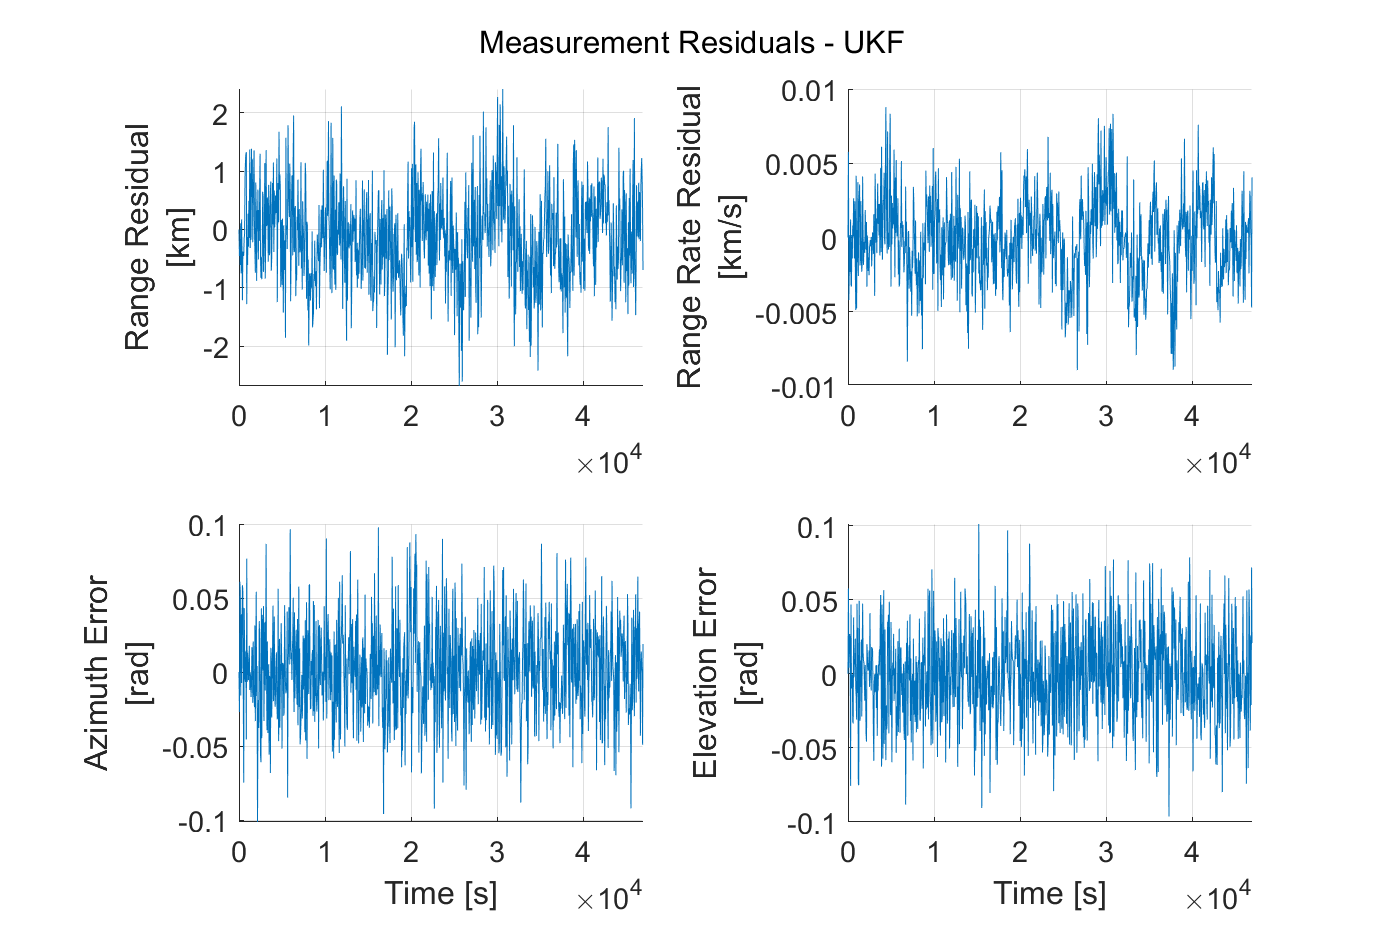
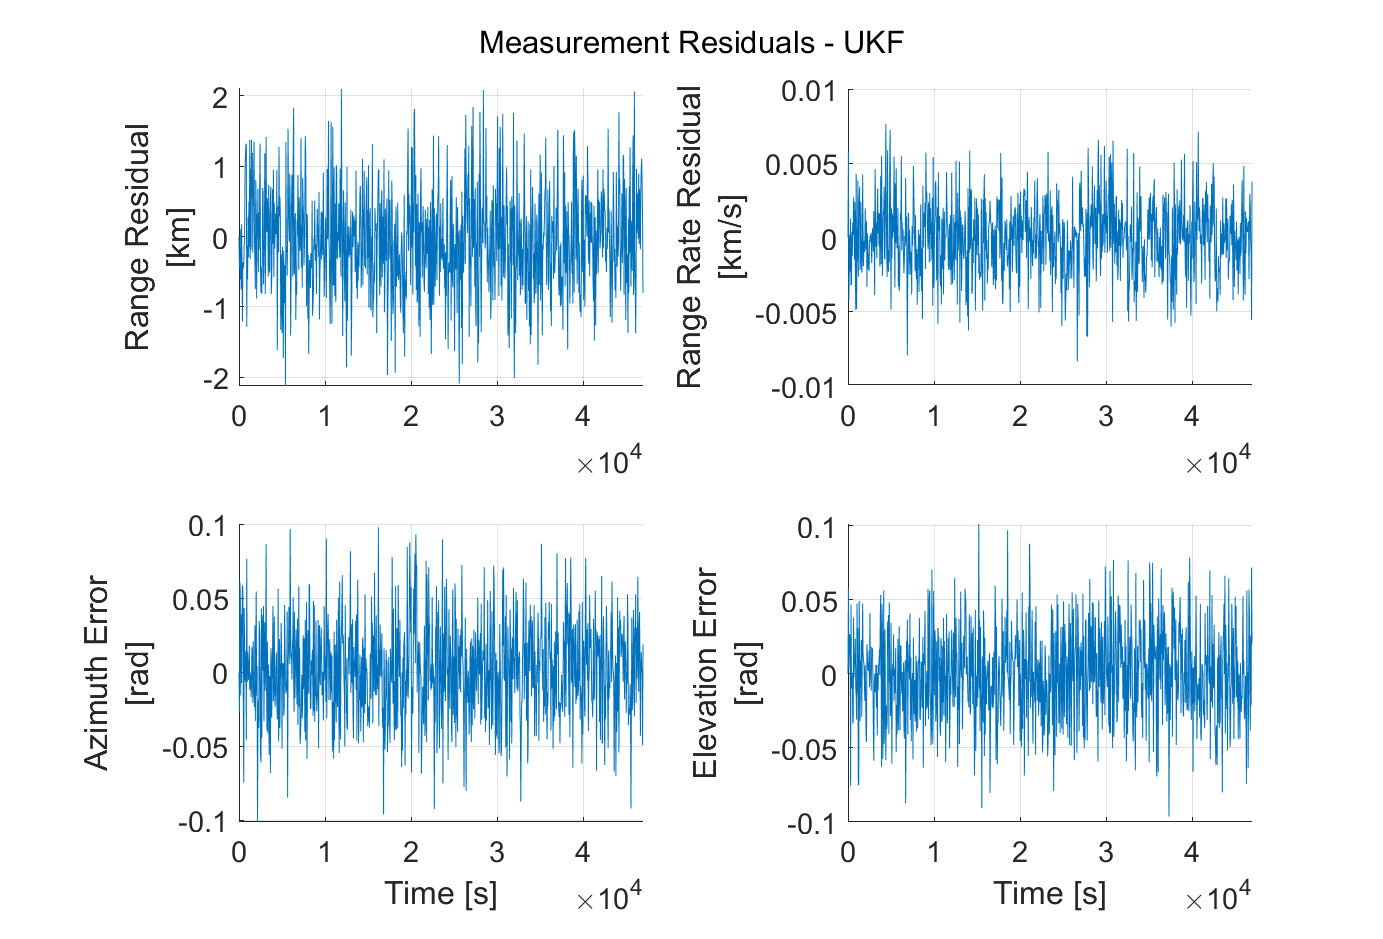
Functioning PF with initial tuning

diff --git a/RunFilters.m b/RunFilters.m
@@ -9,16 +9,11 @@ UKF.xp = UKF.xm;
 UKF.xm(:,1) = init_state;
 UKF.xp(:,1) = init_state;
 
-PF.xm = zeros(params.n, params.N);
-PF.xp = UKF.xm;
-PF.xm(:,1) = init_state;
-PF.xp(:,1) = init_state;
-
 UKF.Pp = 1*eye(6);
 UKF.Pp(2,2) = 0.0005;
 UKF.Pp(4,4) = 0.0005;
 UKF.Pp(6,6) = 0.0005;
-PF.Pp = UKF.Pp;
+% PF.Pp = UKF.Pp;
 
 UKF.Pm = UKF.Pp;
 
@@ -29,19 +24,20 @@ filterUKF = trackingUKF(@transitionfcn, @measurementfcn, init_state, ...
          'ProcessNoise', params.Q, 'MeasurementNoise', params.R,...
          'StateCovariance', UKF.Pp,...
          'Alpha', 1e-3);
+     
 %Particle Filter  
-filterPF = trackingPF(@particletransitionfcn, @particlemeasurementfcn, ...
-           init_state, 'ProcessNoise', params.Q, 'MeasurementNoise', params.R,...
-           'StateCovariance', PF.Pp, 'NumParticles', 500);
+% filterPF = trackingPF(@particletransitionfcn, @particlemeasurementfcn, ...
+%            init_state, 'ProcessNoise', params.Q, 'MeasurementNoise', params.R,...
+%            'StateCovariance', PF.Pp, 'NumParticles', 500);
 
 for k = 1:(length(Y)-1)
     % Print Progress
     clc;
-    fprintf('Progress:\t%3.0f %%\n', k/(length(Y)-1)*100);
+    fprintf('UKF Progress:\t%3.0f %%\n', k/(length(Y)-1)*100);
     
     %Prediction step
     [UKF.xm(:,k+1), UKF.Pm(:,:,k+1)] = predict(filterUKF, params.dt, CONST);
-    [PF.xm(:,k+1), PF.Pm(:,:,k+1)] = predict(filterPF, params.dt, CONST);
+%     [PF.xm(:,k+1), PF.Pm(:,:,k+1)] = predict(filterPF, params.dt, CONST);
     
     %Measurement residual
     [UKF.yres(:,k+1), UKF.Sk(:,:,k+1)] = residual(filterUKF, Y(:,k+1), {x_chief(:,k+1), zeros(params.p, params.p)});
@@ -49,11 +45,14 @@ for k = 1:(length(Y)-1)
     
     %Correction step
     [UKF.xp(:,k+1), UKF.Pp(:,:,k+1)] = correct(filterUKF,Y(:,k+1), x_chief(:,k+1), zeros(params.p, params.p));
-    [PF.xp(:,k+1), PF.Pp(:,:,k+1)] = correct(filterPF,Y(:,k+1), x_chief(:,k+1), zeros(params.p, params.p));
+%     [PF.xp(:,k+1), PF.Pp(:,:,k+1)] = correct(filterPF,Y(:,k+1), x_chief(:,k+1), zeros(params.p, params.p));
     
     %Step time forward
     t = t + params.dt;
 end
+
+Ns = 1000;
+PF = RunPF(x_chief, Y, params, CONST, Ns);
 
 end
 

diff --git a/main.m b/main.m
@@ -18,13 +18,13 @@ CONST.R_E = 6378; % [km] Earth's Radius
 
 % Noise specifications
 NOISE.Q = 1e-10 * eye(params.n/2); % Process noise covariance
-% NOISE.Q = zeros(SYSTEM.n/2);
+% NOISE.Q = zeros(params.n/2);
 NOISE.R = [ 0.5,    0,      0,      0;
             0,      5e-6,   0,      0;
             0,      0,      0.001,   0;
             0,      0,      0,      0.001]; % Measurement noise covariance
 
-% NOISE.R = zeros(3, 3);
+% NOISE.R = zeros(4);
 
 rng(04122021);
 
@@ -35,7 +35,7 @@ u = zeros(3,1);
 x_chief = X(:,:,1);
 x_deputy = X(:,:,2);
 
-params.p = length(Y); % Number of measurements
+params.p = size(Y, 1); % Number of measurements
 
 fig = figure;
 fig.WindowState = 'maximized';
@@ -45,7 +45,7 @@ saveas(fig, 'TM.png')
 
 %% Execute Filters
 %Parameters
-params.Q = 1e-7*[   0,      0,      0,      0,      0,      0;
+params.Q = 1e-6*[   0,      0,      0,      0,      0,      0;
                     0,      1,      0,      0,      0,      0;
                     0,      0,      0,      0,      0,      0;
                     0,      0,      0,      1,      0,      0;
@@ -55,7 +55,7 @@ params.Q = 1e-7*[   0,      0,      0,      0,      0,      0;
 params.R = 10 * NOISE.R;
 % params.R = 10*[1,      0,      0,      0;
 %             0,      1e-5,      0,      0;
-%             0,      0,      0.01,    0;
+%             0,      0,      0.01,    0; 
 %             0,      0,      0,      0.01]; % Measurement noise covariance
 
 [UKF, PF] = RunFilters(x_chief, Y, params, CONST);
@@ -75,5 +75,6 @@ saveas(resid_fig, 'ResidualUKF.png')
 
 %% State Estimation Errors for PF
 
-est_err_fig = PlotEstErr(t_vec, x_deputy, PF.xp, PF.Pp, 'Particle Filter');
+PF_vec = VectorizeResults(PF);
+est_err_fig = PlotEstErr(t_vec, x_deputy, PF_vec.x_mmse, PF_vec.P, 'Particle Filter, N_s = 1000');
 saveas(est_err_fig, 'EstErr_PF.png');

diff --git a/RunPF.m b/RunPF.m
@@ -1,0 +1,45 @@
+function [PF] = RunPF(x_chief, Y, params, CONST, Ns)
+%RunPF Runs the Particle Filter to estimate the deputy satellite states
+%over time given the chief satellite's states and the relative measurements
+
+r0 = CONST.R_E + 2000; % [km]
+init_state = [r0+100; 1; 0; 8.75; 0; 0];
+
+pf0.x_mmse = NaN*zeros(params.n, 1);
+pf0.x_map = NaN*zeros(params.n, 1);
+pf0.P = 1*eye(params.n);
+pf0.P(2,2) = 0.0005;
+pf0.P(4,4) = 0.0005;
+pf0.P(6,6) = 0.0005;
+pf0.Neff = Ns;
+PF(1) = pf0;
+
+% Initial Particle Set
+X_k.x = init_state.*ones(params.n, Ns); % Particles
+X_k.w = (1/Ns)*ones(Ns, 1); % Weights
+
+% figure;
+
+for k = 1:params.N-1
+    clc;
+    fprintf('PF Progress:\t%3.0f %%\n', k/(params.N-1)*100);
+    
+%     pf_k = PF(k);
+    y_kp1 = Y(:, k+1);
+    
+    X_kp1 = SIS(X_k, y_kp1, x_chief(:, k+1), params, CONST);
+    
+    pf_kp1.x_mmse = CalcMMSE(X_kp1);
+    pf_kp1.x_map = CalcMAP(X_kp1);
+    pf_kp1.P = cov(X_kp1.x');
+    pf_kp1.Neff = 1/(sum((X_kp1.w).^2));
+    PF(k+1) = pf_kp1;
+    
+%     plot(X_kp1.w, 'o', 'LineWidth', 2)
+    
+    X_kp1 = Resample(X_kp1);
+    X_k = X_kp1;
+end
+
+end
+

diff --git a/VectorizeResults.m b/VectorizeResults.m
@@ -1,0 +1,28 @@
+function [KF_vec] = VectorizeResults(KF)
+%VectorizeResults() takes the results of a Kalman Filter array of structs
+%that contains a results struct for each time step k and converts it into a
+%single vector of states and covariance matrices
+%
+% KF must have the following fields for each struct: .x_p, .P_p
+
+fnames = fieldnames(KF);
+N = length(KF);
+
+for i = 1:length(fnames)
+    [n, p] = size(KF(1).(fnames{i}));
+    if p > 1
+        KF_vec.(fnames{i}) = zeros(n, p, N);
+        
+        for k = 1:N
+            KF_vec.(fnames{i})(:, :, k) = KF(k).(fnames{i});
+        end
+    else
+        KF_vec.(fnames{i}) = zeros(n, N);
+        for k = 1:N
+            KF_vec.(fnames{i})(:, k) = KF(k).(fnames{i});
+        end
+    end
+end
+
+end
+

diff --git a/SIS.m b/SIS.m
@@ -1,0 +1,28 @@
+function [X_kp1] = SIS(X_k, y_kp1, x_chief, params, CONST)
+%SIS Sequential Importance Sampling for the discrete time system
+
+[~, Ns] = size(X_k.x);
+
+X_kp1.x = zeros(params.n, Ns);
+X_kp1.w = zeros(Ns, 1);
+
+for i = 1:Ns
+    mu_q = transitionfcn(X_k.x(:, i), params.dt, CONST);
+    X_kp1.x(:, i) = mvnrnd(mu_q, params.Q)';
+    
+    mu_p = measurementfcn(X_kp1.x(:, i), x_chief, zeros(params.p));
+    
+%     X_kp1.w(i) = X_k.w(i);
+%     for j = 1:params.p
+%         pdf_ij = normpdf(y_kp1(j), mu_p(j), params.R(j, j));
+%         X_kp1.w(i) = X_kp1.w(i) * pdf_ij;
+%     end
+    X_kp1.w(i) = X_k.w(i)*mvnpdf(y_kp1, mu_p, params.R);
+    
+end
+
+w_total = sum(X_kp1.w);
+X_kp1.w = X_kp1.w./w_total; % Normalize
+
+end
+

diff --git a/Resample.m b/Resample.m
@@ -1,0 +1,19 @@
+function [X_kp1] = Resample(X_kp1)
+%Resample Resamples the particles X_kp1 from the distribution of particles
+
+[n, Ns] = size(X_kp1.x);
+
+x_resamp = zeros(n, Ns);
+w_cdf = cumsum(X_kp1.w);
+
+for i = 1:Ns
+    pSamp = rand;
+    ii = find(pSamp < w_cdf, 1);
+    x_resamp(:, i) = X_kp1.x(:, ii);
+end
+
+X_kp1.x = x_resamp;
+X_kp1.w(:) = 1/Ns;
+
+end
+

diff --git a/CalcMMSE.m b/CalcMMSE.m
@@ -1,0 +1,12 @@
+function [x_mmse] = CalcMMSE(X_k)
+%CalcMMSE Calculates the MMSE estimate using the states and weights of X_k
+
+[~, Ns] = size(X_k.x);
+mmse_sum = 0;
+for i = 1:Ns
+    mmse_sum = mmse_sum + X_k.w(i)*X_k.x(:, i);
+end
+x_mmse = mmse_sum;
+
+end
+

diff --git a/particlemeasurementfcn.m b/particlemeasurementfcn.m
@@ -1,7 +1,7 @@
 function y_hat = particlemeasurementfcn(particles, X_chief, R)
 [~,c] = size(particles);
 %iterate over all particles
-for i = 1:c
+parfor i = 1:c
     y_hat(:,i) = measurementfcn(particles(:,i), X_chief, R);
 end
 end

diff --git a/CalcMAP.m b/CalcMAP.m
@@ -1,0 +1,8 @@
+function [x_map] = CalcMAP(X_k)
+%CalcMMSE Calculates the MAP estimate using the states and weights of X_k
+
+[~, i_max] = max(X_k.w);
+x_map = X_k.x(:, i_max);
+
+end
+
